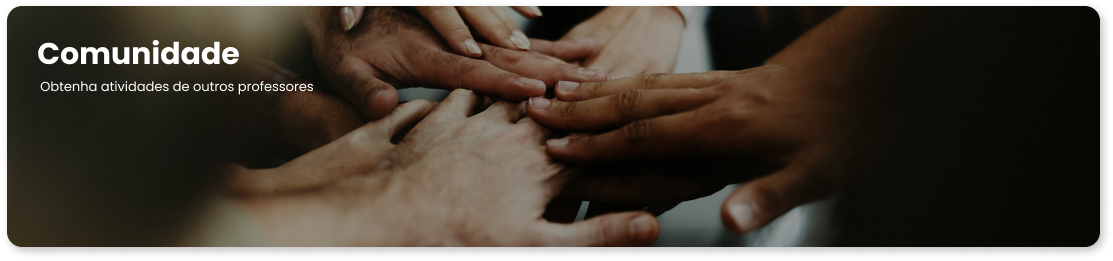
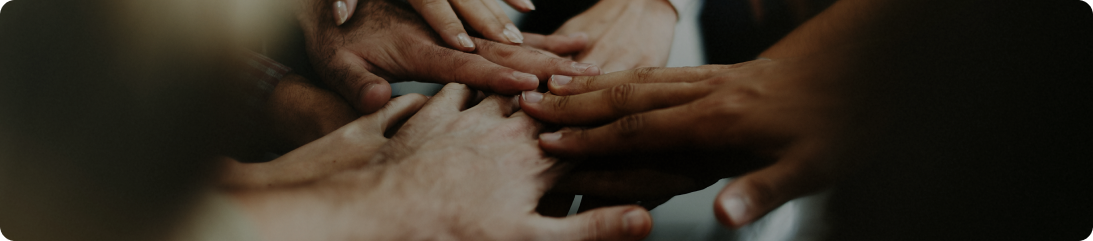
home continuacao

diff --git a/abcdown/src/components/pages/Home.tsx b/abcdown/src/components/pages/Home.tsx
@@ -3,6 +3,8 @@ import Header from '../layout/Header/Header';
 import imageComunidade from '../layout/img_containers_cards/comunidade.png'
 import imageTurmas from '../layout/img_containers_cards/turmas.png'
 import ImageAtividade from '../layout/img_containers_cards/atividade.png'
+import ImageSobreAbcdown from '../layout/img_containers_cards/logo.png'
+import ImageCompartilhar from '../layout/img_containers_cards/compartilhar.png'
 import ContainerCard from '../layout/container_card/ContainerCard'; // Verifique o caminho correto para o arquivo
 function Home() {
     return (
@@ -12,36 +14,107 @@ function Home() {
                 flexDirection: 'column',
                 alignItems: 'center', // Centralizar horizontalmente o conteúdo
                 backgroundColor: '#f2f2f2', // Cor de fundo de exemplo
-                width:'100%'
+                width: '100%',
+
             }}>
                 <Header title="Home" />
-                
-                <ContainerCard
-                backgroundImage={imageComunidade}
-                width="90%"
-                height="200px"
-                text=""
-                description=""
-                textClassName="custom-text"
-                descriptionClassName="custom-description"/>
 
-<ContainerCard
-                backgroundImage={imageTurmas}
-                width="40%"
-                height="200px"
-                text=""
-                description=""
-                textClassName="custom-text"
-                descriptionClassName="custom-description"/>
 
-<ContainerCard
-                backgroundImage={ImageAtividade}
-                width="40%"
-                height="200px"
-                text=""
-                description=""
-                textClassName="custom-text"
-                descriptionClassName="custom-description"/>
+                <div style={{
+                    display: 'flex',
+                    flexDirection: 'column',
+                    alignItems: 'center', // Centralizar horizontalmente o conteúdo
+                    justifyContent: 'space-around', // Distribuir espaço entre os elementos
+                    width: '100%',
+                    height: '100%',
+                    //backgroundColor: 'pink',
+                }}>
+
+                    <ContainerCard
+                        backgroundImage={imageComunidade}
+                        width="90%"
+                        height="300px"
+                        text="Comunidade"
+                        description="Obtenha atividades de outros professores"
+                        textClassName="custom-text"
+                        descriptionClassName="custom-description" />
+
+                    <div style={{
+                        display: 'flex',
+                        flexDirection: 'row',
+                        width: '100%',
+                        height: 'max-content',
+                        alignItems: 'center',
+                        justifyContent: 'center',
+                        //backgroundColor: 'red',
+                        gap: '50px'
+                    }}>
+                        <ContainerCard
+                            backgroundImage={imageTurmas}
+                            width="40%"
+                            height="400px"
+                            text=""
+                            description=""
+                            textClassName="custom-text"
+                            descriptionClassName="custom-description" />
+
+                        <ContainerCard
+                            backgroundImage={ImageAtividade}
+                            width="40%"
+                            height="400px"
+                            text=""
+                            description=""
+                            textClassName="custom-text"
+                            descriptionClassName="custom-description" />
+
+                    </div>
+
+
+
+                    <div style={{
+                        display: 'flex',
+                        flexDirection: 'row',
+                        width: '100%',
+                        height: 'max-content',
+                        alignItems: 'center',
+                        justifyContent: 'center',
+                       // backgroundColor: 'red',
+                        gap: '50px'
+                    }}>
+                        <ContainerCard
+                            backgroundImage=''
+                            width="40%"
+                            height="250px"
+                            text="Sobre o ABCDown"
+                            description="Conheça mais à respeito do nosso APP!"
+                            textClassName="custom-text"
+                            descriptionClassName="custom-description"
+                            imagem={ImageSobreAbcdown}
+                        />
+
+
+
+
+                        <ContainerCard
+                            backgroundImage=''
+                            width="40%"
+                            height="250px"
+                            text="Compartilhar"
+                            description="Gostou do ABCDown? Compartilhe com amigos!"
+                            textClassName="custom-text"
+                            descriptionClassName="custom-description"
+                            imagem={ImageCompartilhar} />
+                    </div>
+
+
+                </div>
+
+
+
+
+
+
+
             </div>
         </>
     );

diff --git a/abcdown/src/components/layout/container_card/ContainerCard.tsx b/abcdown/src/components/layout/container_card/ContainerCard.tsx
@@ -10,10 +10,11 @@ interface ContainerCardProps {
     description?: string;
     textClassName?: string;
     descriptionClassName?: string;
+    imagem?: string
 }
 
 function ContainerCard(props: ContainerCardProps) {
-    const { backgroundImage, width, height, text, description, textClassName, descriptionClassName } = props;
+    const { backgroundImage, width, height, text, description, textClassName, descriptionClassName,imagem } = props;
 
     const containerStyle = {
         backgroundImage: `url(${backgroundImage})`,
@@ -27,6 +28,7 @@ function ContainerCard(props: ContainerCardProps) {
                 <h2 className={textClassName}>{text}</h2>
                 <p className={descriptionClassName}>{description}</p>
             </div>
+            <img src= {imagem} alt="" />
         </div>
     );
 }

diff --git a/abcdown/src/components/layout/container_card/ContainerCard.module.css b/abcdown/src/components/layout/container_card/ContainerCard.module.css
@@ -1,29 +1,11 @@
-/* Container Card Styles */
 .containerCard {
-    /*border: 1px solid #ccc;*/
-    border-radius: 10px;
-    padding: 20px;
-    margin: 20px;
-    background-size: cover;
+    /* background-color: aqua; */
+    width: max-content;
     background-repeat: no-repeat;
+    background-repeat: no-repeat;
+    background-size: 100% 100%;
     display: flex;
-    flex-direction: column;
-    align-items: center;
-    justify-content: center;
-    text-align: center;
-    color: white;
-}
-
-.content {
-    padding: 20px;
-}
-
-.custom-text {
-    font-size: 24px;
-    font-weight: bold;
-    margin-bottom: 10px;
-}
-
-.custom-description {
-    font-size: 16px;
+    flex-direction: row;
+    background-color: #fff;
+    border-radius: 20px;
 }

diff --git a/abcdown/public/index.html b/abcdown/public/index.html
@@ -24,7 +24,12 @@
       Unlike "/favicon.ico" or "favicon.ico", "%PUBLIC_URL%/favicon.ico" will
       work correctly both with client-side routing and a non-root public URL.
       Learn how to configure a non-root public URL by running `npm run build`.
+      
     -->
+
+    <link rel="preconnect" href="https://fonts.googleapis.com">
+<link rel="preconnect" href="https://fonts.gstatic.com" crossorigin>
+<link href="https://fonts.googleapis.com/css2?family=Poppins:ital,wght@0,100;0,200;0,300;0,400;0,500;0,600;0,700;0,800;0,900;1,100;1,200;1,300;1,400;1,500;1,600;1,700;1,800;1,900&display=swap" rel="stylesheet">
     <title>ABCDown</title>
   </head>
   <body>

diff --git a/abcdown/public/index.css b/abcdown/public/index.css
@@ -3,3 +3,7 @@
     padding: 0;
     box-sizing: border-box;
 }
+
+body{
+    font-family: 'Poppins', sans-serif;
+}
